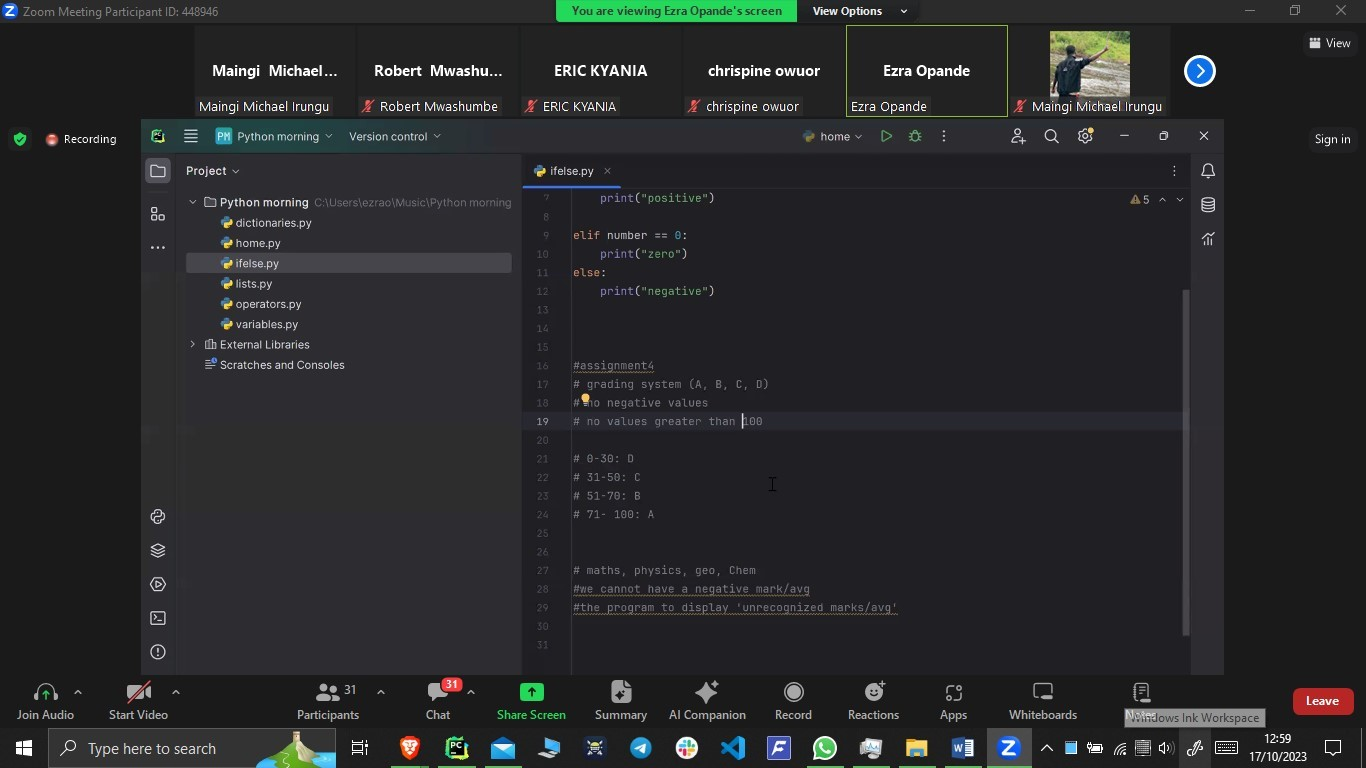
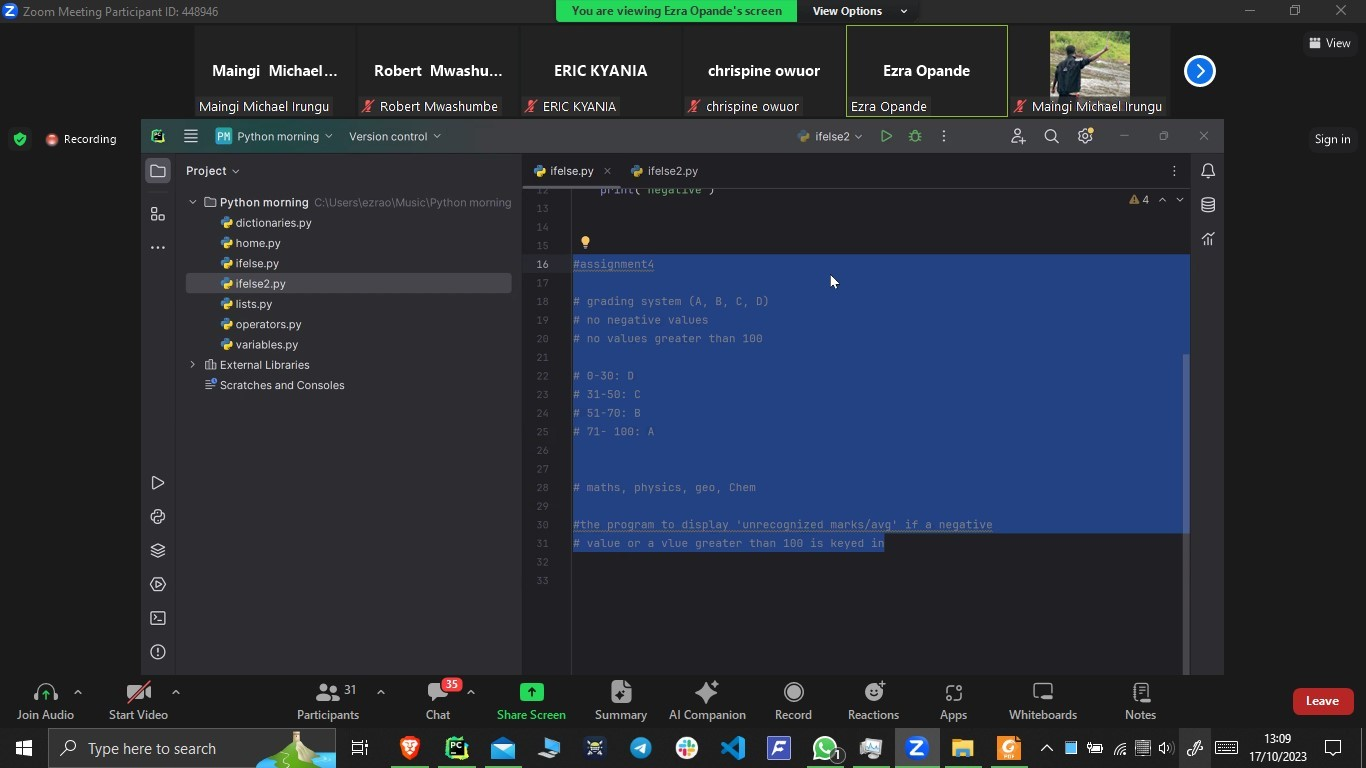
first push

diff --git a/assignment4.py b/assignment4.py
@@ -1,0 +1,20 @@
+# Grading system
+maths = 80
+physics = 60
+geo = 65
+chem = 75
+
+total = maths + physics + geo + chem
+average = total / 4
+
+if average > 100 or average < 0 or maths > 100 or maths < 0 or physics > 100 or physics < 0 or geo > 100 or geo < 0 or chem > 100 or chem < 0 :
+    print(" Unrecognized marks / average")
+else:
+    if average > 70:
+        print("A")
+    elif average > 50:
+        print("B")
+    elif average > 30:
+        print("C")
+    else:
+        print("D")
